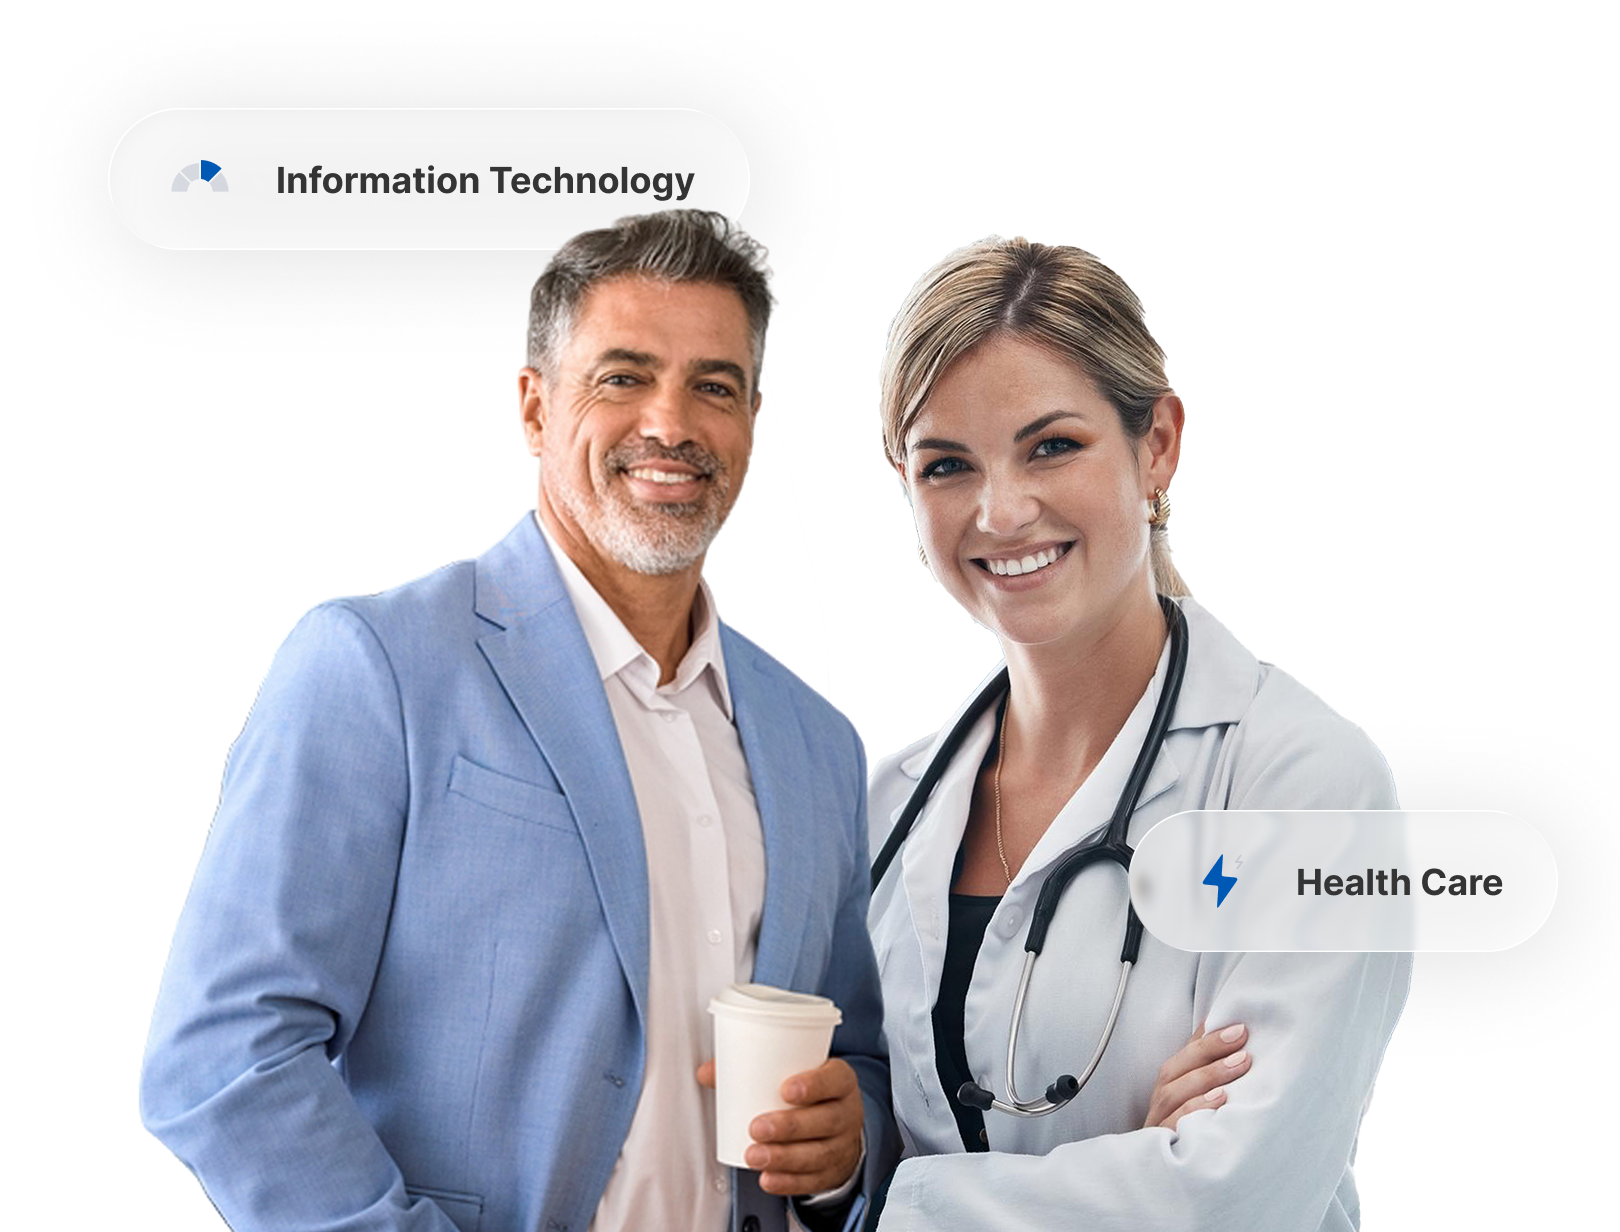
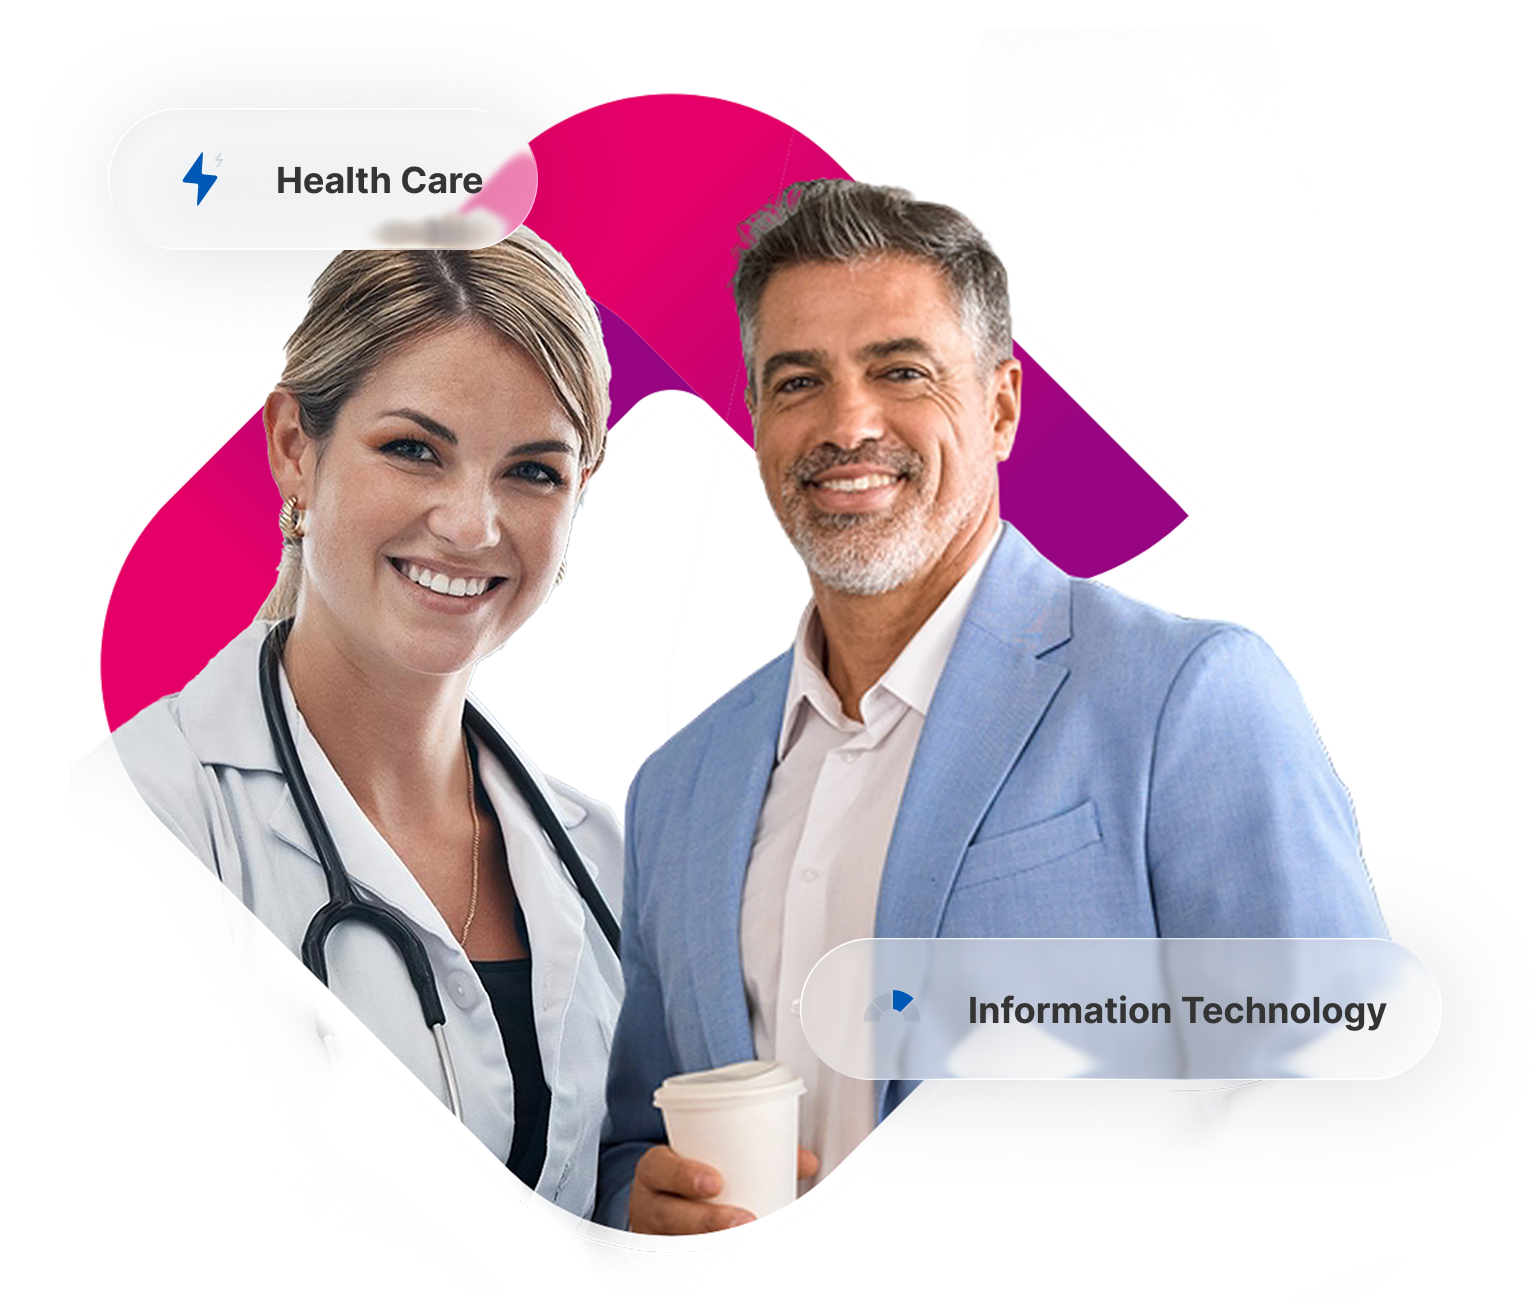
hero

diff --git a/app/components/Hero.tsx b/app/components/Hero.tsx
@@ -42,8 +42,8 @@ export default function Hero() {
         </div>
 
         {/* Right visual */}
-        <div className="bg-gradient-to-b from-white to-sky-100 lg:bg-gradient-to-b lg:from-sky-50 lg:to-white lg:bg-white flex items-end w-full absolute sm:w-screen sm:h-screen bottom-18 top-auto right-0 lg:bottom-0 lg:top-0 lg:right-0 lg:w-[55vw] lg:z-0 pointer-events-none overflow-hidden">
-          <Image src={hero} className="lg:ml-5 flex w-full h-auto" alt="Hero" />
+        <div className="bg-gradient-to-b from-white to-sky-100 lg:bg-gradient-to-b lg:from-sky-50 lg:to-white lg:bg-white flex items-end w-full absolute sm:w-screen bottom-18 top-auto right-0 lg:top-0 lg:right-0 lg:w-[50vw] lg:z-0 pointer-events-none overflow-hidden">
+          <Image src={hero} className="lg:ml-5" alt="Hero" />
         </div>
       </div>
     </section>
